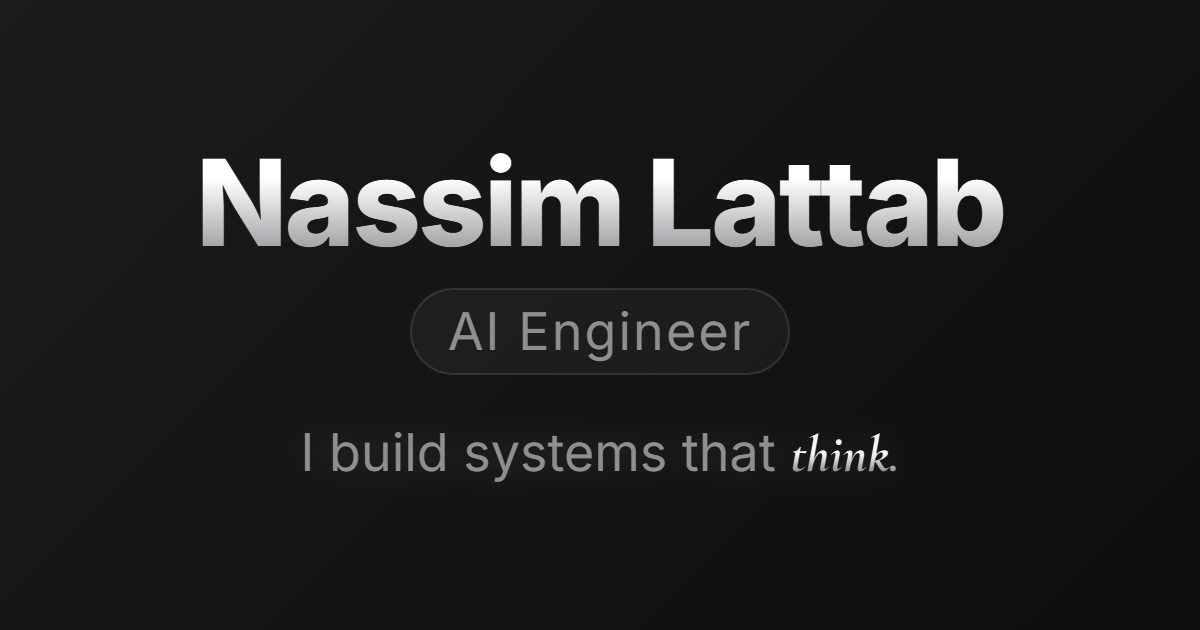
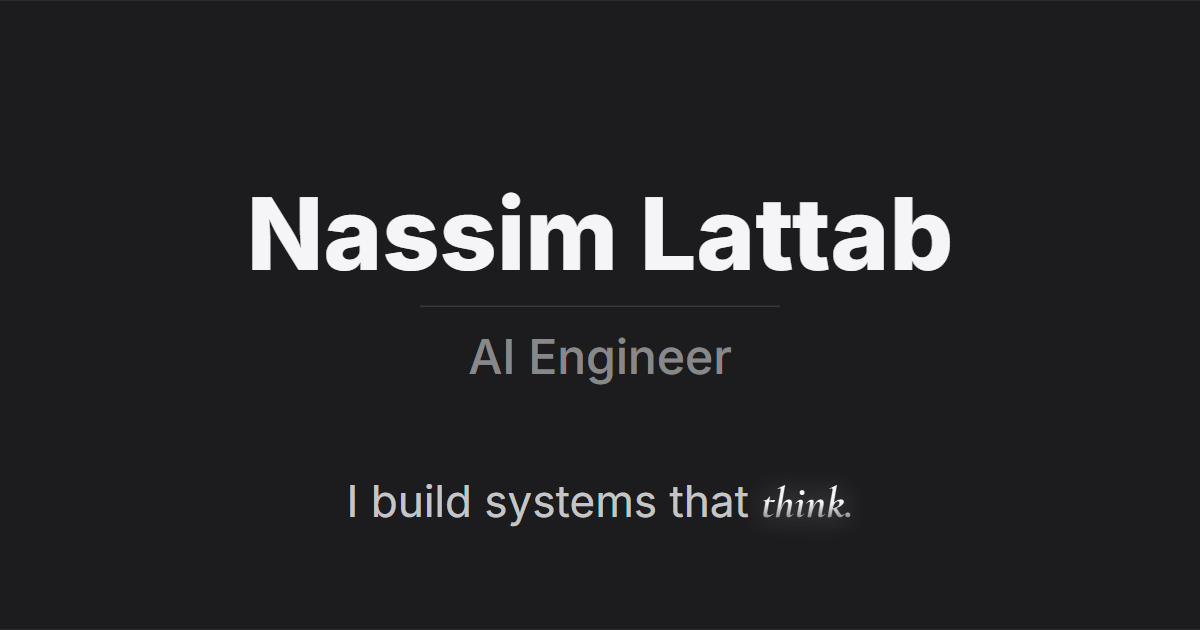
add og:image, update themes

diff --git a/assets/social/og-image.html b/assets/social/og-image.html
@@ -2,92 +2,125 @@
 <html lang="en">
 <head>
   <meta charset="UTF-8" />
-  <meta name="viewport" content="width=1200, height=630" />
-  <title>OG Image</title>
+  <meta name="viewport" content="width=device-width, initial-scale=1.0" />
+  <title>og:image – Nassim Lattab</title>
 
-  <link href="https://fonts.googleapis.com/css2?family=Inter:wght@300;400;800&display=swap" rel="stylesheet">
-  <link href="https://fonts.googleapis.com/css2?family=Cormorant+Garamond:ital,wght@1,700&display=swap" rel="stylesheet">
+  <meta property="og:title" content="Nassim Lattab – AI Engineer" />
+  <meta property="og:description" content="I build systems that think." />
+  <meta property="og:image" content="og.png" />
+  <meta property="og:image:width" content="1200" />
+  <meta property="og:image:height" content="630" />
+  <meta property="og:type" content="website" />
+  <meta name="twitter:card" content="summary_large_image" />
+  <meta name="twitter:image" content="og.png" />
+
+  <link rel="preconnect" href="https://fonts.googleapis.com" />
+  <link rel="preconnect" href="https://fonts.gstatic.com" crossorigin />
+  <link href="https://fonts.googleapis.com/css2?family=Inter:ital,wght@0,300;0,400;0,500;0,800;1,700&family=Cormorant+Garamond:ital,wght@1,700&display=swap" rel="stylesheet" />
 
   <style>
-    * { box-sizing: border-box; margin: 0; padding: 0; }
+    *, *::before, *::after { box-sizing: border-box; margin: 0; padding: 0; }
 
-    html, body {
-      width: 1200px;
-      height: 630px;
-      overflow: hidden;
-      font-family: 'Inter', sans-serif;
-    }
-
-    .frame {
-      width: 1200px;
-      height: 630px;
-      background: linear-gradient(135deg, #1C1C1E 0%, #141414 50%, #0E0E10 100%);
+    body {
+      background: #000;
       display: flex;
       align-items: center;
       justify-content: center;
+      min-height: 100vh;
+      font-family: 'Inter', sans-serif;
     }
 
-    .container {
+    .og {
+      position: relative;
+      width: 1200px;
+      height: 630px;
+      background: #1c1c1e;
+      overflow: hidden;
+    }
+
+    .border-top {
+      position: absolute;
+      top: 0; left: 0; right: 0;
+      height: 1px;
+      background: rgba(255,255,255,0.08);
+    }
+
+    .border-bottom {
+      position: absolute;
+      bottom: 0; left: 0; right: 0;
+      height: 1px;
+      background: rgba(255,255,255,0.08);
+    }
+
+    .top-block {
+      position: absolute;
+      top: 50%;
+      left: 50%;
+      transform: translate(-50%, -65%);
       display: flex;
       flex-direction: column;
       align-items: center;
-      text-align: center;
-      padding: 80px;
-      gap: 0;
+      white-space: nowrap;
     }
 
     .name {
-      font-size: 120px;
+      font-size: 100px;
       font-weight: 800;
-      background: linear-gradient(to bottom, #FFFFFF 30%, #8E8E93 100%);
-      -webkit-background-clip: text;
-      -webkit-text-fill-color: transparent;
-      background-clip: text;
-      letter-spacing: -0.025em;
-      line-height: 1.02;
-      margin-bottom: 24px;
+      line-height: 1;
+      color: #F5F5F7;
+      white-space: nowrap;
     }
 
-    .badge {
-      display: inline-flex;
-      align-items: center;
-      border: 2px solid rgba(255,255,255,0.10);
-      background: rgba(255,255,255,0.04);
-      color: #8E8E93;
-      font-size: 52px;
-      font-weight: 400;
-      padding: 10px 36px;
-      border-radius: 999px;
-      letter-spacing: 0.04em;
-      margin-bottom: 44px;
+    .divider {
+      width: 360px;
+      height: 1px;
+      background: rgba(255,255,255,0.18);
+      margin: 22px 0 20px;
+    }
+
+    .role {
+      font-size: 48px;
+      font-weight: 500;
+      letter-spacing: 0;
+      color: rgba(245,245,247,0.50);
+      white-space: nowrap;
     }
 
     .tagline {
-      font-size: 52px;
+      position: absolute;
+      bottom: 100px;
+      left: 50%;
+      transform: translateX(-50%);
+      white-space: nowrap;
+      font-size: 44px;
       font-weight: 400;
-      color: #8E8E93;
-      line-height: 1.3;
-      filter: drop-shadow(0 0 18px rgba(255,255,255,0.15));
+      letter-spacing: 0;
+      color: rgba(245,245,247,0.80);
     }
 
-    .accent {
+    .think {
       font-family: 'Cormorant Garamond', serif;
       font-style: italic;
       font-weight: 700;
+      font-size: 1em;
       background: linear-gradient(to bottom, #F5F5F7 50%, #3A3A3C 100%);
       -webkit-background-clip: text;
       -webkit-text-fill-color: transparent;
       background-clip: text;
+      filter: drop-shadow(0 0 14px rgba(255,255,255,0.35));
     }
   </style>
 </head>
 <body>
-  <div class="frame">
-    <div class="container">
-      <div class="name">Nassim Lattab</div>
-      <div class="badge">AI Engineer</div>
-      <div class="tagline">I build systems that <span class="accent">think.</span></div>
+  <div class="og">
+    <div class="border-top"></div>
+    <div class="top-block">
+      <span class="name">Nassim Lattab</span>
+      <div class="divider"></div>
+      <span class="role">AI Engineer</span>
     </div>
+    <p class="tagline">I build systems that <span class="think">think.</span></p>
+    <div class="border-bottom"></div>
   </div>
 </body>
 </html>

diff --git a/js/themes.js b/js/themes.js
@@ -2,32 +2,31 @@ const THEMES = [
   {
     id: "ethereal",
     name: "Ethereal",
-    colorBgRgb: "20, 20, 20",
-    colorBg: "#141414",
-    colorSurface: "#1C1C1E",
-    colorSurfaceElevated: "#2C2C2E",
+    colorBgRgb: "26, 26, 28",
+    colorBg: "#1A1A1C",
+    colorSurface: "#252528",
+    colorSurfaceElevated: "#313135",
     colorAccent: "#F5F5F7",
-    colorAccentSubtle: "rgba(245, 245, 247, 0.08)",
+    colorAccentSubtle: "rgba(245, 245, 247, 0.09)",
     colorTextPrimary: "#F5F5F7",
-    colorTextSecondary: "#8E8E93",
-    colorTagText: "#8E8E93",
-    colorTagBg: "rgba(255, 255, 255, 0.06)",
-    colorTagBorder: "rgba(255, 255, 255, 0.12)",
+    colorTextSecondary: "#AEAEB2",
+    colorTagText: "#C7C7CC",
+    colorTagBg: "rgba(255, 255, 255, 0.09)",
+    colorTagBorder: "rgba(255, 255, 255, 0.18)",
   },
   {
     id: "pulsar",
     name: "Pulsar",
-    colorBgRgb: "14, 16, 22",
-    colorBg: "#0E1016",
-    colorSurface: "#161B26",
-    colorSurfaceElevated: "#1E2535",
+    colorBgRgb: "20, 23, 32",
+    colorBg: "#141720",
+    colorSurface: "#1C2235",
+    colorSurfaceElevated: "#242C42",
     colorAccent: "#E0E8FF",
-    colorAccentSubtle: "rgba(224, 232, 255, 0.08)",
+    colorAccentSubtle: "rgba(224, 232, 255, 0.09)",
     colorTextPrimary: "#F0F4FF",
-    colorTextSecondary: "#8896B3",
-    colorTagText: "#8896B3",
-    colorTagBg: "rgba(100, 140, 255, 0.06)",
-    colorTagBorder: "rgba(100, 140, 255, 0.15)",
+    colorTextSecondary: "#A8B8D0",
+    colorTagText: "#B8CAEE",
+    colorTagBg: "rgba(100, 140, 255, 0.10)",
+    colorTagBorder: "rgba(100, 140, 255, 0.25)",
   },
-
 ];
